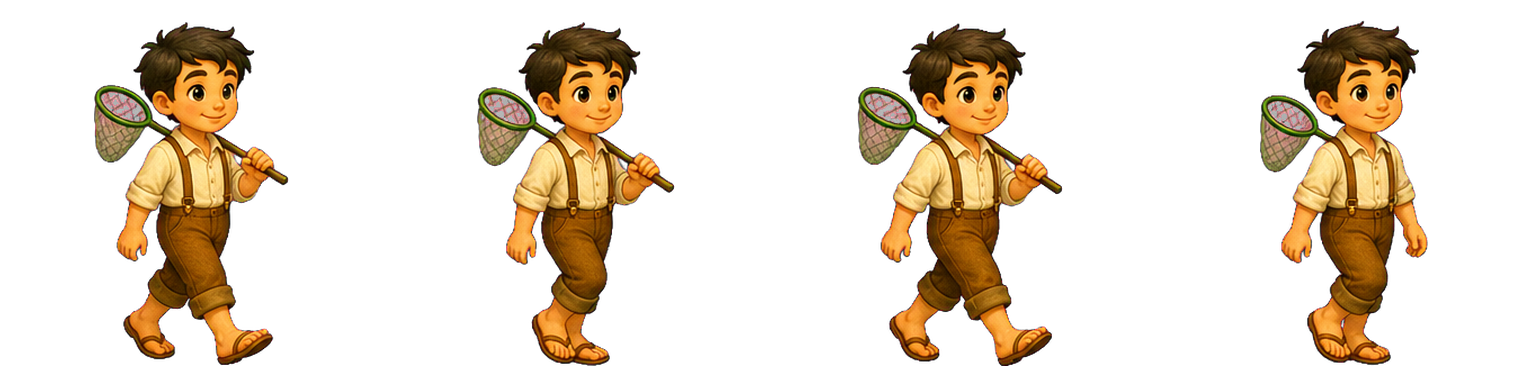
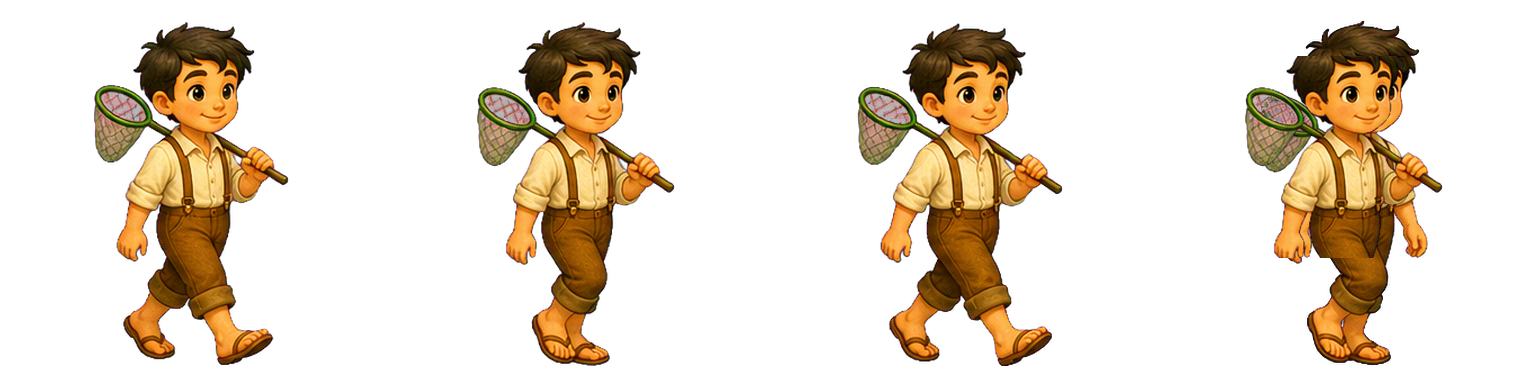
Fix Compo crab boy net walk frame

Changed region(s): [[0.8125, 0.125, 0.9375, 0.6875]]

diff --git a/idle/sw.js b/idle/sw.js
@@ -1,4 +1,4 @@
-const CACHE_NAME = "idle-town-pwa-cache-v22";
+const CACHE_NAME = "idle-town-pwa-cache-v23";
 const CROP_FILES = ["carrot", "wheat", "strawberry", "pumpkin", "blueberry", "apple"].flatMap((crop) =>
   ["soil", "sprout", "young", "mature"].map((stage) => `./assets/art/living-world/crops/${crop}-${stage}.png`)
 );
